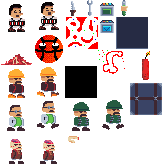
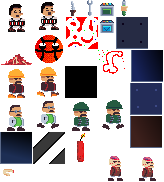
tile upgrade

diff --git a/site/public/js/main.js b/site/public/js/main.js
@@ -1616,7 +1616,7 @@ eval("\r\nObject.defineProperty(exports, \"__esModule\", { value: true });\r\nex
 /***/ (function(module, exports, __webpack_require__) {
 
 "use strict";
-eval("\r\nObject.defineProperty(exports, \"__esModule\", { value: true });\r\nexports.MapLoader = void 0;\r\nconst Config_1 = __webpack_require__(/*! ./Config */ \"./site/build/client/Config.js\");\r\nconst TaskCommands_1 = __webpack_require__(/*! ./engine/commands/TaskCommands */ \"./site/build/client/engine/commands/TaskCommands.js\");\r\nconst Task_1 = __webpack_require__(/*! ./engine/entities/Task */ \"./site/build/client/engine/entities/Task.js\");\r\nconst ZombieSpawner_1 = __webpack_require__(/*! ./engine/entities/ZombieSpawner */ \"./site/build/client/engine/entities/ZombieSpawner.js\");\r\nconst Map_1 = __webpack_require__(/*! ./Map */ \"./site/build/client/Map.js\");\r\nconst TextureLoader_1 = __webpack_require__(/*! ./resources/TextureLoader */ \"./site/build/client/resources/TextureLoader.js\");\r\nclass MapLoader {\r\n    constructor(serviceLocator) {\r\n        this.serviceLocator = serviceLocator;\r\n        this.imagedata = (0, TextureLoader_1.getImageData)(this.serviceLocator.getResourceManager().getDefaultSpriteSheet().getImage());\r\n        this.imagesprite = this.serviceLocator.getResourceManager().getDefaultSpriteSheet().getSprite(\"map\");\r\n    }\r\n    getEntities() {\r\n        const mapWidth = this.imagesprite.pixelCoordinate.textureWidth;\r\n        const mapHeight = this.imagesprite.pixelCoordinate.textureHeight;\r\n        console.log(\"map\");\r\n        console.log(mapWidth);\r\n        console.log(mapHeight);\r\n        const gameMap = new Map_1.GameMap(this.serviceLocator, mapWidth, mapHeight);\r\n        const entities = [];\r\n        for (let x = 0; x < mapWidth; x++) {\r\n            for (let y = 0; y < mapHeight; y++) {\r\n                let mapX = x + this.imagesprite.pixelCoordinate.textureX;\r\n                let mapY = y + this.imagesprite.pixelCoordinate.textureY;\r\n                const index = (mapX + (mapY * this.serviceLocator.getResourceManager().getDefaultSpriteSheet().getWidth())) * 4;\r\n                entities.push(...this.loadPixel(gameMap, x, y, this.imagedata.data[index], this.imagedata.data[index + 1], this.imagedata.data[index + 2], this.imagedata.data[index + 3]));\r\n            }\r\n        }\r\n        return [\r\n            gameMap, ...entities\r\n        ];\r\n    }\r\n    loadPixel(gameMap, x, y, r, g, b, a) {\r\n        let entities = [];\r\n        let image = \"tile\";\r\n        let collides = false;\r\n        // Tile images\r\n        switch (r) {\r\n            case 255:\r\n                image = \"tile_crate\";\r\n                collides = true;\r\n                break;\r\n        }\r\n        // Entites\r\n        switch (g) {\r\n            case 255:\r\n                entities.push(new ZombieSpawner_1.ZombieSpawner(this.serviceLocator, x * Config_1.TILE_WIDTH, y * Config_1.TILE_HEIGHT));\r\n                break;\r\n        }\r\n        switch (b) {\r\n            case 255:\r\n                entities.push(new Task_1.Task(this.serviceLocator, x * Config_1.TILE_WIDTH, y * Config_1.TILE_HEIGHT, TaskCommands_1.TaskType.SIMON_SAYS));\r\n                break;\r\n        }\r\n        gameMap.setTile(x, y, {\r\n            image,\r\n            collides\r\n        });\r\n        return entities;\r\n    }\r\n}\r\nexports.MapLoader = MapLoader;\r\n//# sourceMappingURL=MapLoader.js.map\n\n//# sourceURL=webpack:///./site/build/client/MapLoader.js?");
+eval("\r\nObject.defineProperty(exports, \"__esModule\", { value: true });\r\nexports.MapLoader = void 0;\r\nconst Config_1 = __webpack_require__(/*! ./Config */ \"./site/build/client/Config.js\");\r\nconst TaskCommands_1 = __webpack_require__(/*! ./engine/commands/TaskCommands */ \"./site/build/client/engine/commands/TaskCommands.js\");\r\nconst Task_1 = __webpack_require__(/*! ./engine/entities/Task */ \"./site/build/client/engine/entities/Task.js\");\r\nconst ZombieSpawner_1 = __webpack_require__(/*! ./engine/entities/ZombieSpawner */ \"./site/build/client/engine/entities/ZombieSpawner.js\");\r\nconst Map_1 = __webpack_require__(/*! ./Map */ \"./site/build/client/Map.js\");\r\nconst TextureLoader_1 = __webpack_require__(/*! ./resources/TextureLoader */ \"./site/build/client/resources/TextureLoader.js\");\r\nconst math_1 = __webpack_require__(/*! ./util/math */ \"./site/build/client/util/math/index.js\");\r\nclass MapLoader {\r\n    constructor(serviceLocator) {\r\n        this.serviceLocator = serviceLocator;\r\n        this.imagedata = (0, TextureLoader_1.getImageData)(this.serviceLocator.getResourceManager().getDefaultSpriteSheet().getImage());\r\n        this.imagesprite = this.serviceLocator.getResourceManager().getDefaultSpriteSheet().getSprite(\"map\");\r\n    }\r\n    getEntities() {\r\n        const mapWidth = this.imagesprite.pixelCoordinate.textureWidth;\r\n        const mapHeight = this.imagesprite.pixelCoordinate.textureHeight;\r\n        const gameMap = new Map_1.GameMap(this.serviceLocator, mapWidth, mapHeight);\r\n        const entities = [];\r\n        for (let x = 0; x < mapWidth; x++) {\r\n            for (let y = 0; y < mapHeight; y++) {\r\n                let mapX = x + this.imagesprite.pixelCoordinate.textureX;\r\n                let mapY = y + this.imagesprite.pixelCoordinate.textureY;\r\n                const index = (mapX + (mapY * this.serviceLocator.getResourceManager().getDefaultSpriteSheet().getWidth())) * 4;\r\n                entities.push(...this.loadPixel(gameMap, x, y, this.imagedata.data[index], this.imagedata.data[index + 1], this.imagedata.data[index + 2], this.imagedata.data[index + 3]));\r\n            }\r\n        }\r\n        return [\r\n            gameMap, ...entities\r\n        ];\r\n    }\r\n    loadPixel(gameMap, x, y, r, g, b, a) {\r\n        let entities = [];\r\n        let image = \"tile\".concat((0, math_1.randomIntRange)(1, 6).toString());\r\n        let collides = false;\r\n        // Tile images\r\n        switch (r) {\r\n            case 255:\r\n                image = \"tile_crate\";\r\n                collides = true;\r\n                break;\r\n        }\r\n        // Entites\r\n        switch (g) {\r\n            case 255:\r\n                entities.push(new ZombieSpawner_1.ZombieSpawner(this.serviceLocator, x * Config_1.TILE_WIDTH, y * Config_1.TILE_HEIGHT));\r\n                break;\r\n        }\r\n        switch (b) {\r\n            case 255:\r\n                entities.push(new Task_1.Task(this.serviceLocator, x * Config_1.TILE_WIDTH, y * Config_1.TILE_HEIGHT, TaskCommands_1.TaskType.SIMON_SAYS));\r\n                break;\r\n        }\r\n        gameMap.setTile(x, y, {\r\n            image,\r\n            collides\r\n        });\r\n        return entities;\r\n    }\r\n}\r\nexports.MapLoader = MapLoader;\r\n//# sourceMappingURL=MapLoader.js.map\n\n//# sourceURL=webpack:///./site/build/client/MapLoader.js?");
 
 /***/ }),
 

diff --git a/site/src/client/MapLoader.ts b/site/src/client/MapLoader.ts
@@ -8,7 +8,7 @@ import { GameMap } from "./Map";
 import { Sprite } from "./resources/SpriteSheet";
 import { getImageData, loadImageData } from "./resources/TextureLoader";
 import { ServiceLocator } from "./services/ServiceLocator";
-import { randomFloat } from "./util/math";
+import { randomFloat, randomIntRange } from "./util/math";
 
 export class MapLoader {
     private imagedata: ImageData;
@@ -23,9 +23,7 @@ export class MapLoader {
     public getEntities(): Entity[] {
         const mapWidth = this.imagesprite.pixelCoordinate.textureWidth;
         const mapHeight = this.imagesprite.pixelCoordinate.textureHeight;
-        console.log("map");
-        console.log(mapWidth);
-        console.log(mapHeight);
+        
 
         const gameMap = new GameMap(
             this.serviceLocator,
@@ -58,7 +56,7 @@ export class MapLoader {
 
     private loadPixel(gameMap: GameMap, x: number, y: number, r: number, g: number, b: number, a: number): Entity[] {
         let entities: Entity[] = [];
-        let image: string = "tile";
+        let image: string = "tile".concat(randomIntRange(1, 6).toString());
         let collides: boolean = false;
 
         // Tile images
